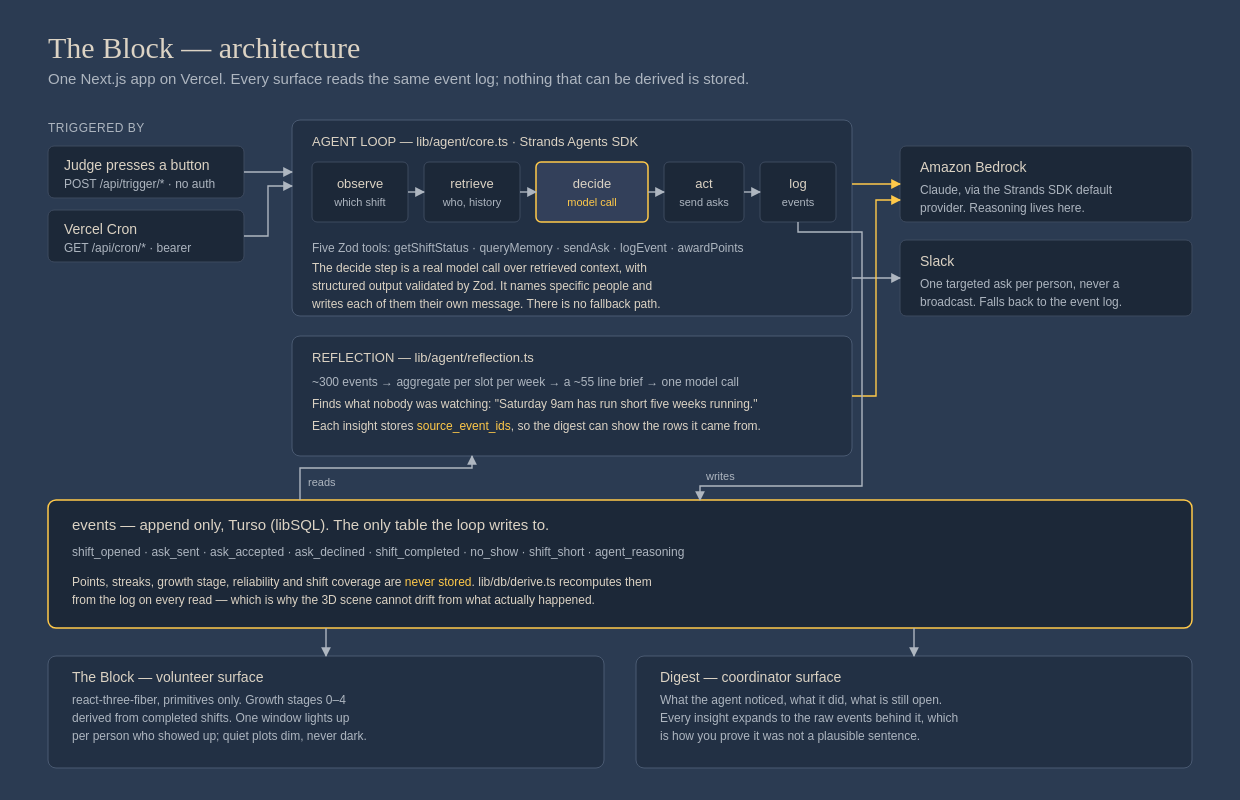
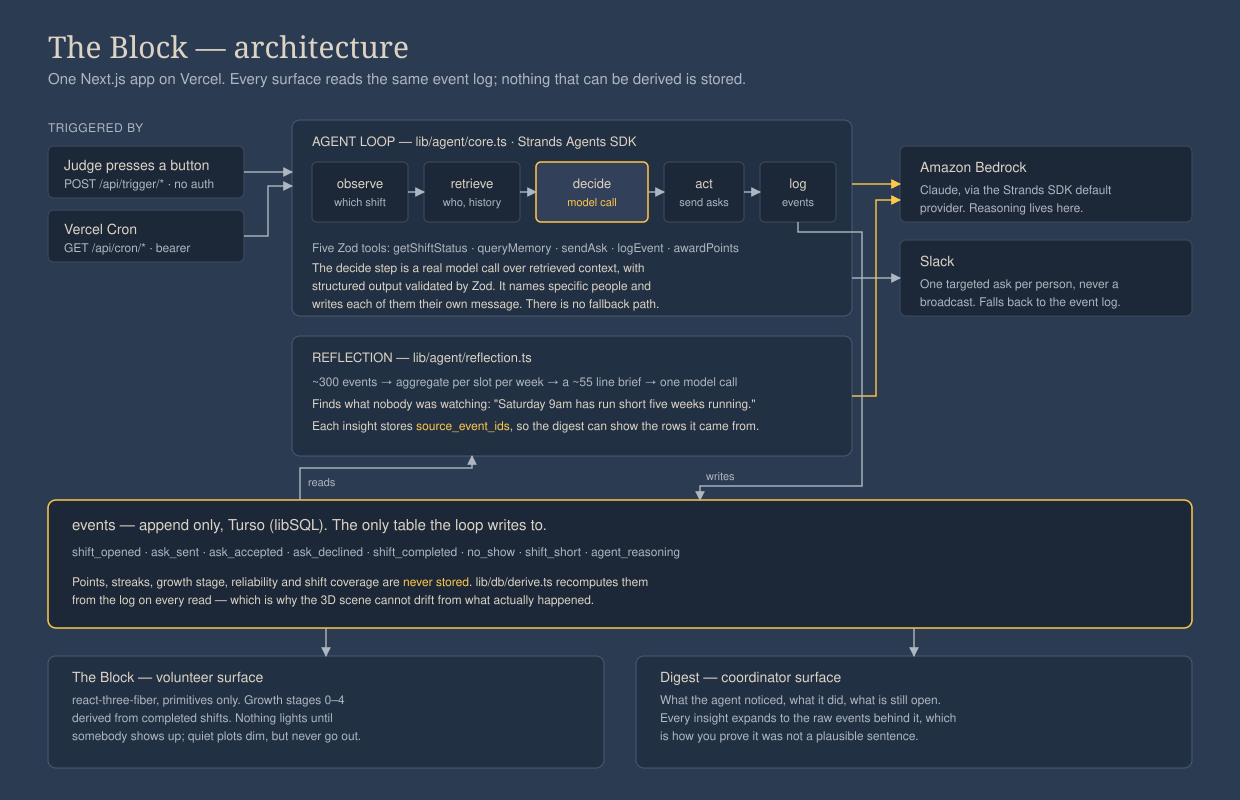
docs(docs): stop the diagram claiming one lit window per person
Claude-Session: https://claude.ai/code/session_019q5421J5yJqg8miCArGwQ7

diff --git a/AGENTS.md b/AGENTS.md
@@ -96,7 +96,8 @@ Turso (libSQL) over HTTP in production; a local `file:` URL in development, same
 
 From `design.md`, and they are checked:
 
-- **`--lamp` (#FFC94A) means exactly one thing: someone showed up.** Never a button, link, border or focus ring. Gold anywhere else breaks the metaphor and the scene stops being readable.
+- **`--lamp` (#FFC94A) means exactly one thing: someone showed up.** Never a button, link, border or focus ring. Gold anywhere else breaks the metaphor and the scene stops being readable. Highlights use `--stone`. The food bank's doorway is the one sanctioned exception, because that doorway is where people show up; its windows are dark glass.
+- **A lit window is not one person.** Windows come with the growth stage — three at stage 2, five at stage 3, thirteen at stage 4 — and the stage comes from completed shifts, so light appears *because* people showed up without counting them one for one. `docs/architecture-diagram.svg` used to claim "one window lights up per person who showed up", which was never true. Say "nothing lights until somebody shows up" instead, and regenerate the PNG the README embeds with `rsvg-convert -w 1240 -h 800 docs/architecture-diagram.svg -o docs/architecture-diagram.png`.
 - Empty lots are `--stone-dim` — neutral, never darker or redder. **Inaction is never a visual penalty.** Growth pauses; nothing burns down, nothing regresses a stage.
 - Copy: plain verbs, sentence case, warmth about people, no drama about gaps. "Saturday 9am is short two people." never "⚠ CRITICAL COVERAGE ALERT". The interface rarely says a point total out loud — the building growing *is* the reward.
 - No all-caps labels, no accent-coloured word in a headline, no eyebrow labels. `design.md` calls these the tells that make work read as generated.
